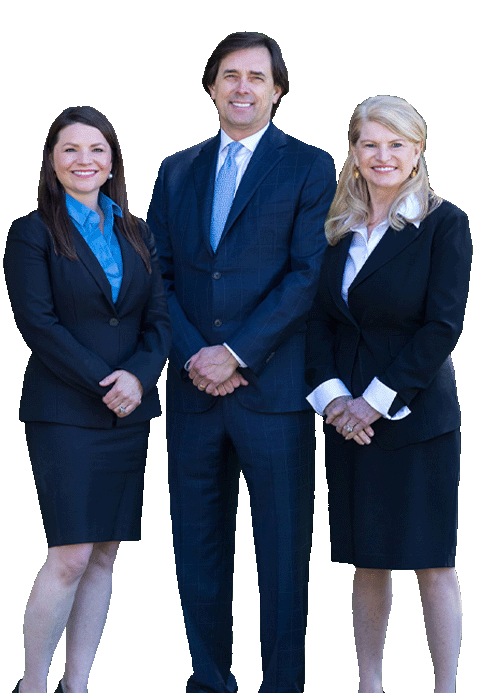
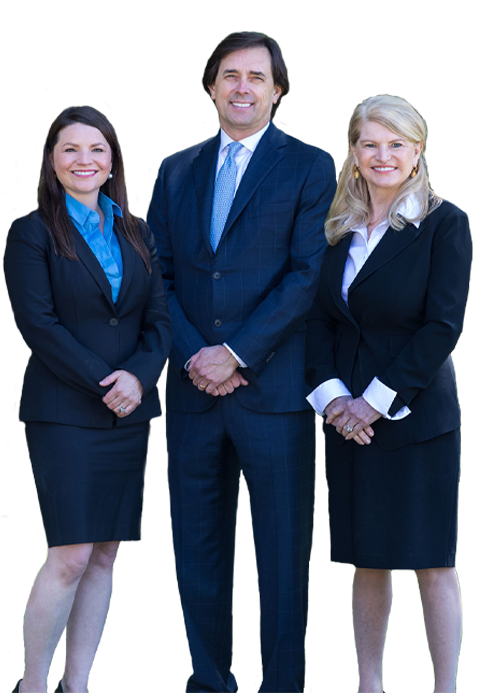
home image sizing

diff --git a/src/app/shared/components/hero-banner/hero-banner-two/hero-banner-two.component.html b/src/app/shared/components/hero-banner/hero-banner-two/hero-banner-two.component.html
@@ -4,9 +4,9 @@
      <p><a href="/home/home-lawyer#cases">Scroll Down</a></p>
   </div>
   <div class="slider__shape">
-     <img class="slider__shape-4-1" src="/assets/img/slider/4/slider-shape-1.png" alt="">
-     <img class="slider__shape-4-2 jarallax" src="/assets/img/slider/4/slider-shape-2.png" alt="">
-     <img class="slider__shape-4-3 jarallax" src="/assets/img/slider/4/slider-shape-3.png" alt="">
+     <img class="slider__shape-4-1" src="/assets/img/slider/4/slider-shape-1.png" alt="shape1">
+     <img class="slider__shape-4-2 jarallax" src="/assets/img/slider/4/slider-shape-2.png" alt="shape2">
+     <img class="slider__shape-4-3 jarallax" src="/assets/img/slider/4/slider-shape-3.png" alt="shape 3">
   </div>
   <div class="container">
      <div class="row align-items-center">
@@ -23,7 +23,7 @@
         </div>
         <div class="col-xxl-5 col-xl-6 col-lg-6 col-md-6">
            <div class="slider__thumb-4 m-img " >
-              <img data-sal="slide-up" data-sal-delay="150" data-sal-duration="1000" src="/assets/img/slider/partnersTransparent.png" alt="">
+              <img data-sal="slide-up" data-sal-delay="150" data-sal-duration="1000" width="276" height="693" src="/assets/img/slider/partnersTransparent.png" alt="">
            </div>
         </div>
      </div>

diff --git a/src/app/home/home-lawyer/home-lawyer.component.html b/src/app/home/home-lawyer/home-lawyer.component.html
@@ -25,7 +25,7 @@
                   <div class="award__slider-active swiper-container">
                      <div class="award__item-wrapper swiper-wrapper">
                         <div *ngFor="let img of award_images" class="award__item-4 mr-30 swiper-slide">
-                           <img [src]="img" alt="award-img" width="80px">
+                           <img [src]="img" alt="award-img" width="80px" height="62">
                         </div>
                      </div>
                   </div>
@@ -51,7 +51,7 @@
           <div class="col-xxl-5 col-xl-5 col-lg-6 history_background">
              <div class="history__thumb-wrapper d-sm-flex pr-70">
                 <div class="history__thumb">
-                   <img src="/assets/img/history/bill_and_client.png" alt="Bill and Client">
+                   <img src="/assets/img/history/bill_and_client.png" width="370" height="470" alt="Bill and Client">
                 </div>
                 <div class="history__thumb-right-wrapper">
                    <div class="history__thumb-right p-relative include-bg" style="background-image: url(/assets/img/history/history-2.jpg);">

diff --git a/src/app/shared/components/blog/blog-area-two/blog-area-two.component.html b/src/app/shared/components/blog/blog-area-two/blog-area-two.component.html
@@ -18,7 +18,7 @@
                           <div class="col-lg-5 col-md-5 col-sm-6">
                              <div class="blog__thumb-4 m-img">
                                 <a [routerLink]="'/' + blog.slug">
-                                   <img [src]="blog.img" alt="{{blog.title}}">
+                                   <img [src]="blog.img" alt="{{blog.title}}" width="224" height="258">
                                 </a>
                              </div>
                           </div>

diff --git a/src/app/shared/components/team/team-area-two/team-area-two.component.html b/src/app/shared/components/team/team-area-two/team-area-two.component.html
@@ -12,7 +12,7 @@
         <div *ngFor="let t of teams; let i = index" class="col-xxl-3 col-xl-3 col-lg-4 col-md-6 col-sm-6">
            <div class="team__item-4 p-relative z-index-1 fix mb-40">
               <div class="team__thumb-4 w-img fix">
-                 <img [src]="t.img" alt="team-img">
+                 <img [src]="t.img" alt="team-img" width="276" height="301">
               </div>
               <div class="team__content-4 fix">
                  <h3 class="team__title-4">
